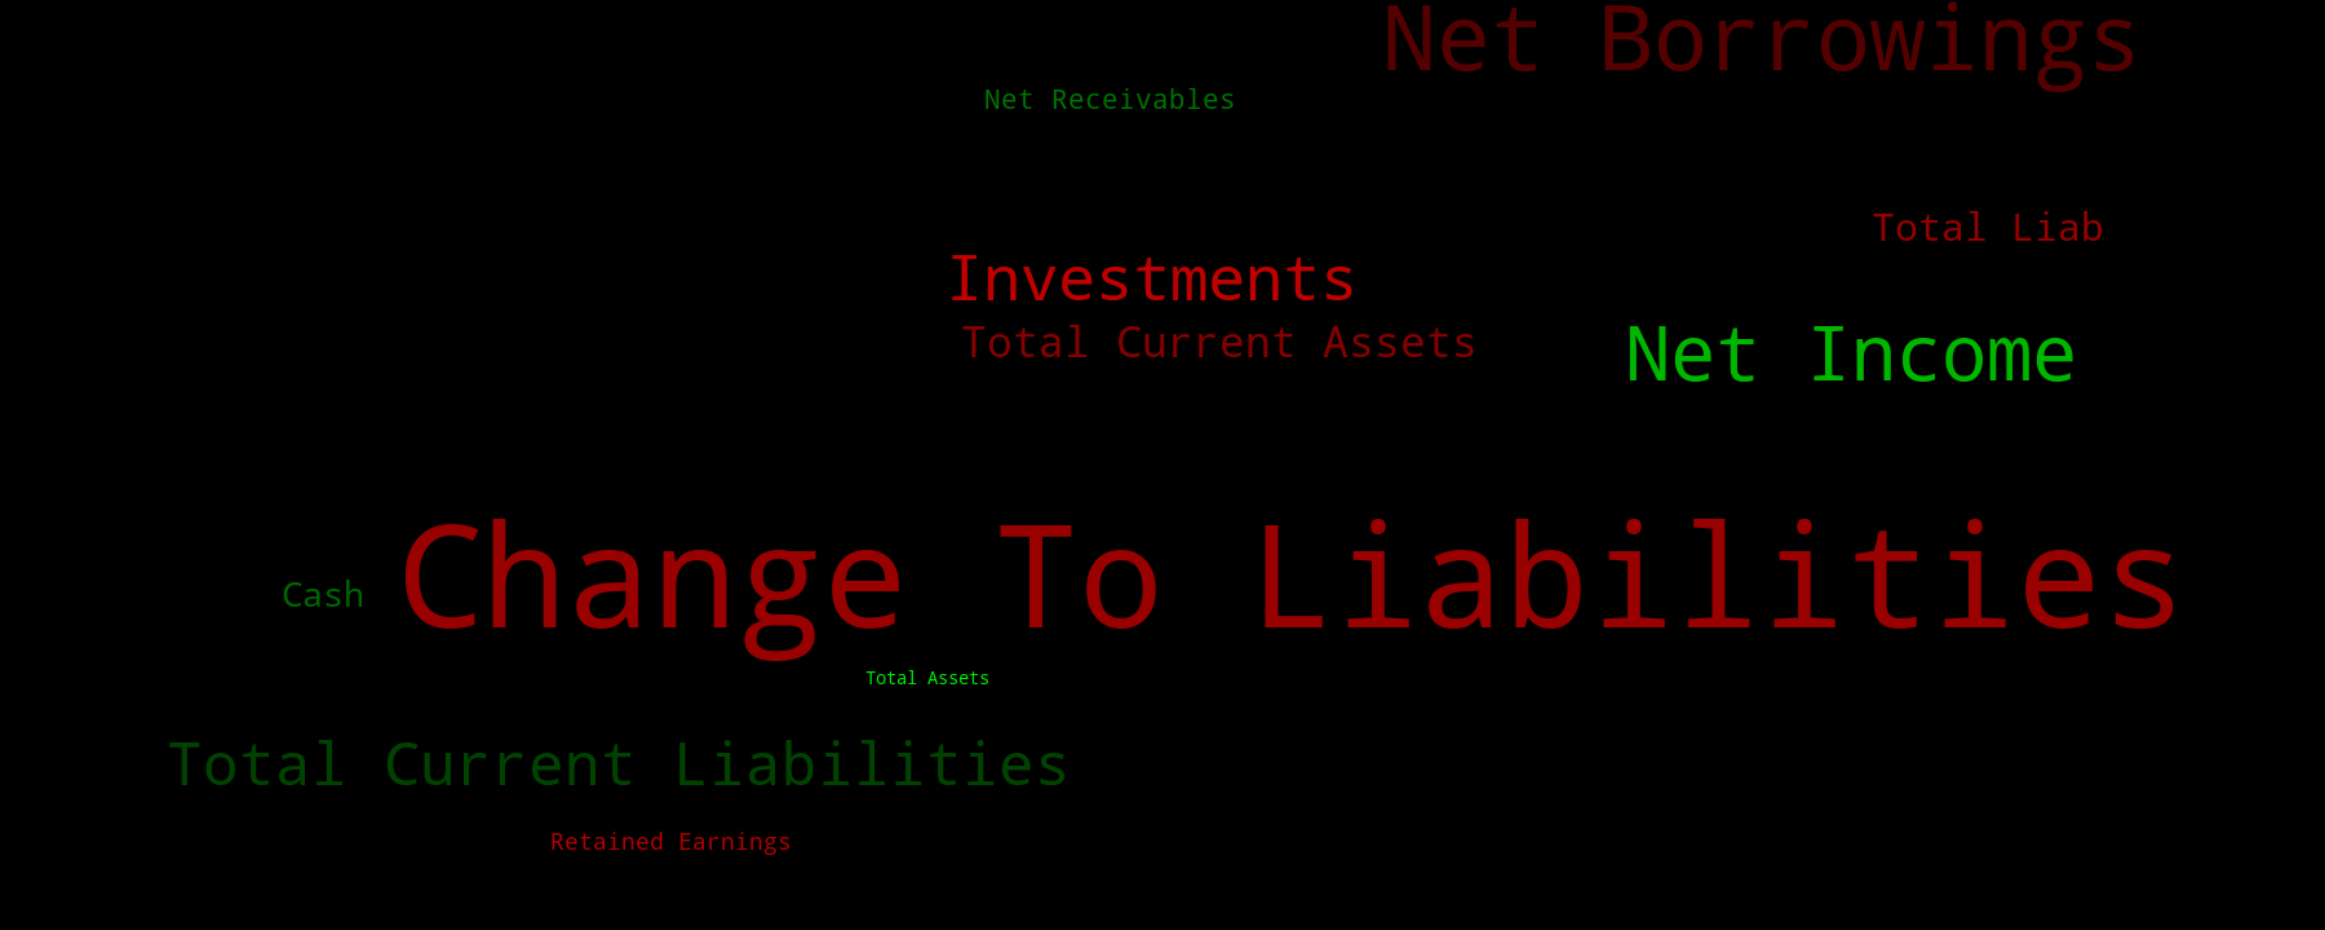
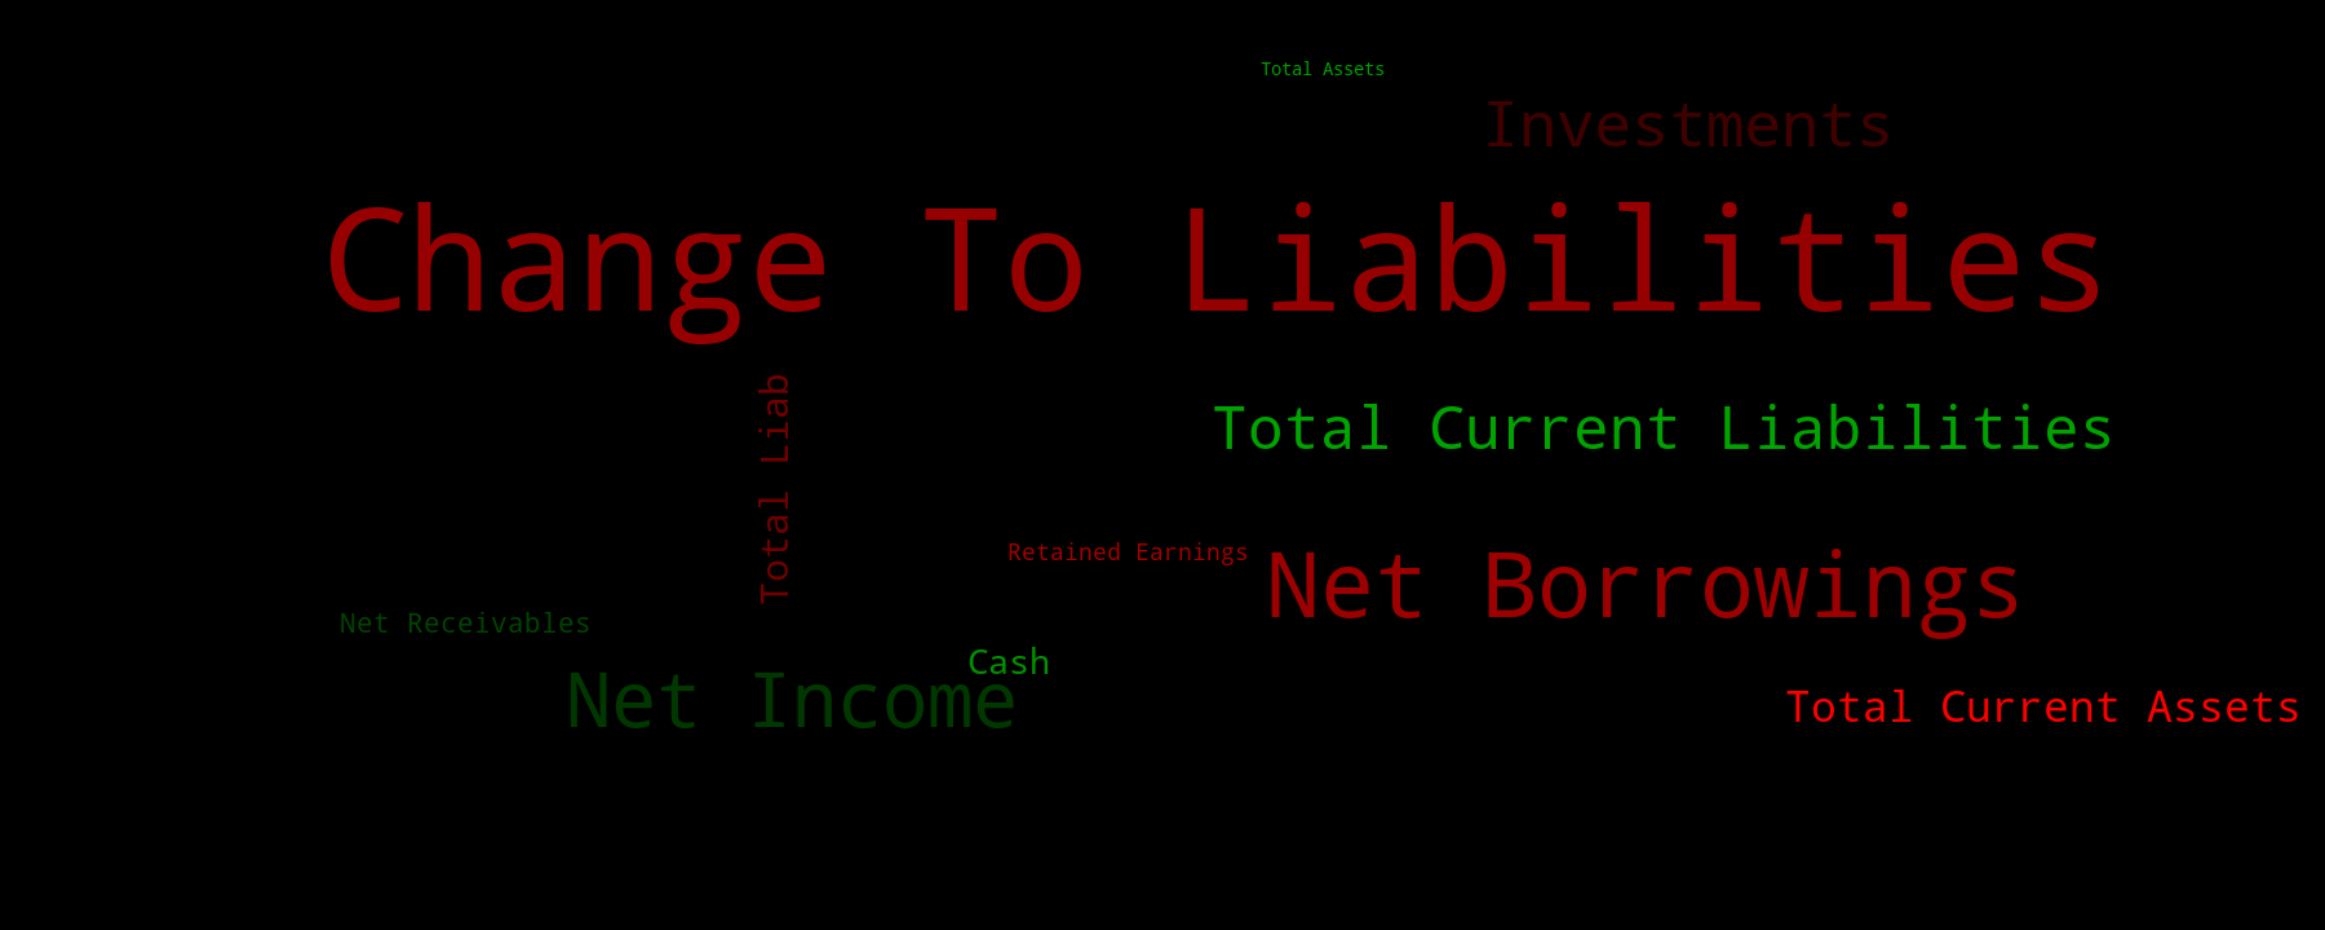
3 month wordcloud

diff --git a/README.md b/README.md
@@ -158,6 +158,8 @@ Short Long Term Debt                         1.137247e+00
 Total Current Assets                         6.000365e-02
 ```
 
+![3 months analysis](3%20month%20analysis%20factor_model.png)
+
 The results may not entirely be what we expected, but again it is important to note that I used large-cap stocks in my example, and there is research to support that factor models may not work very well on large-cap stocks. http://bearcave.com/finance/thesis_project/factor_analysis.pdf 
 
 
